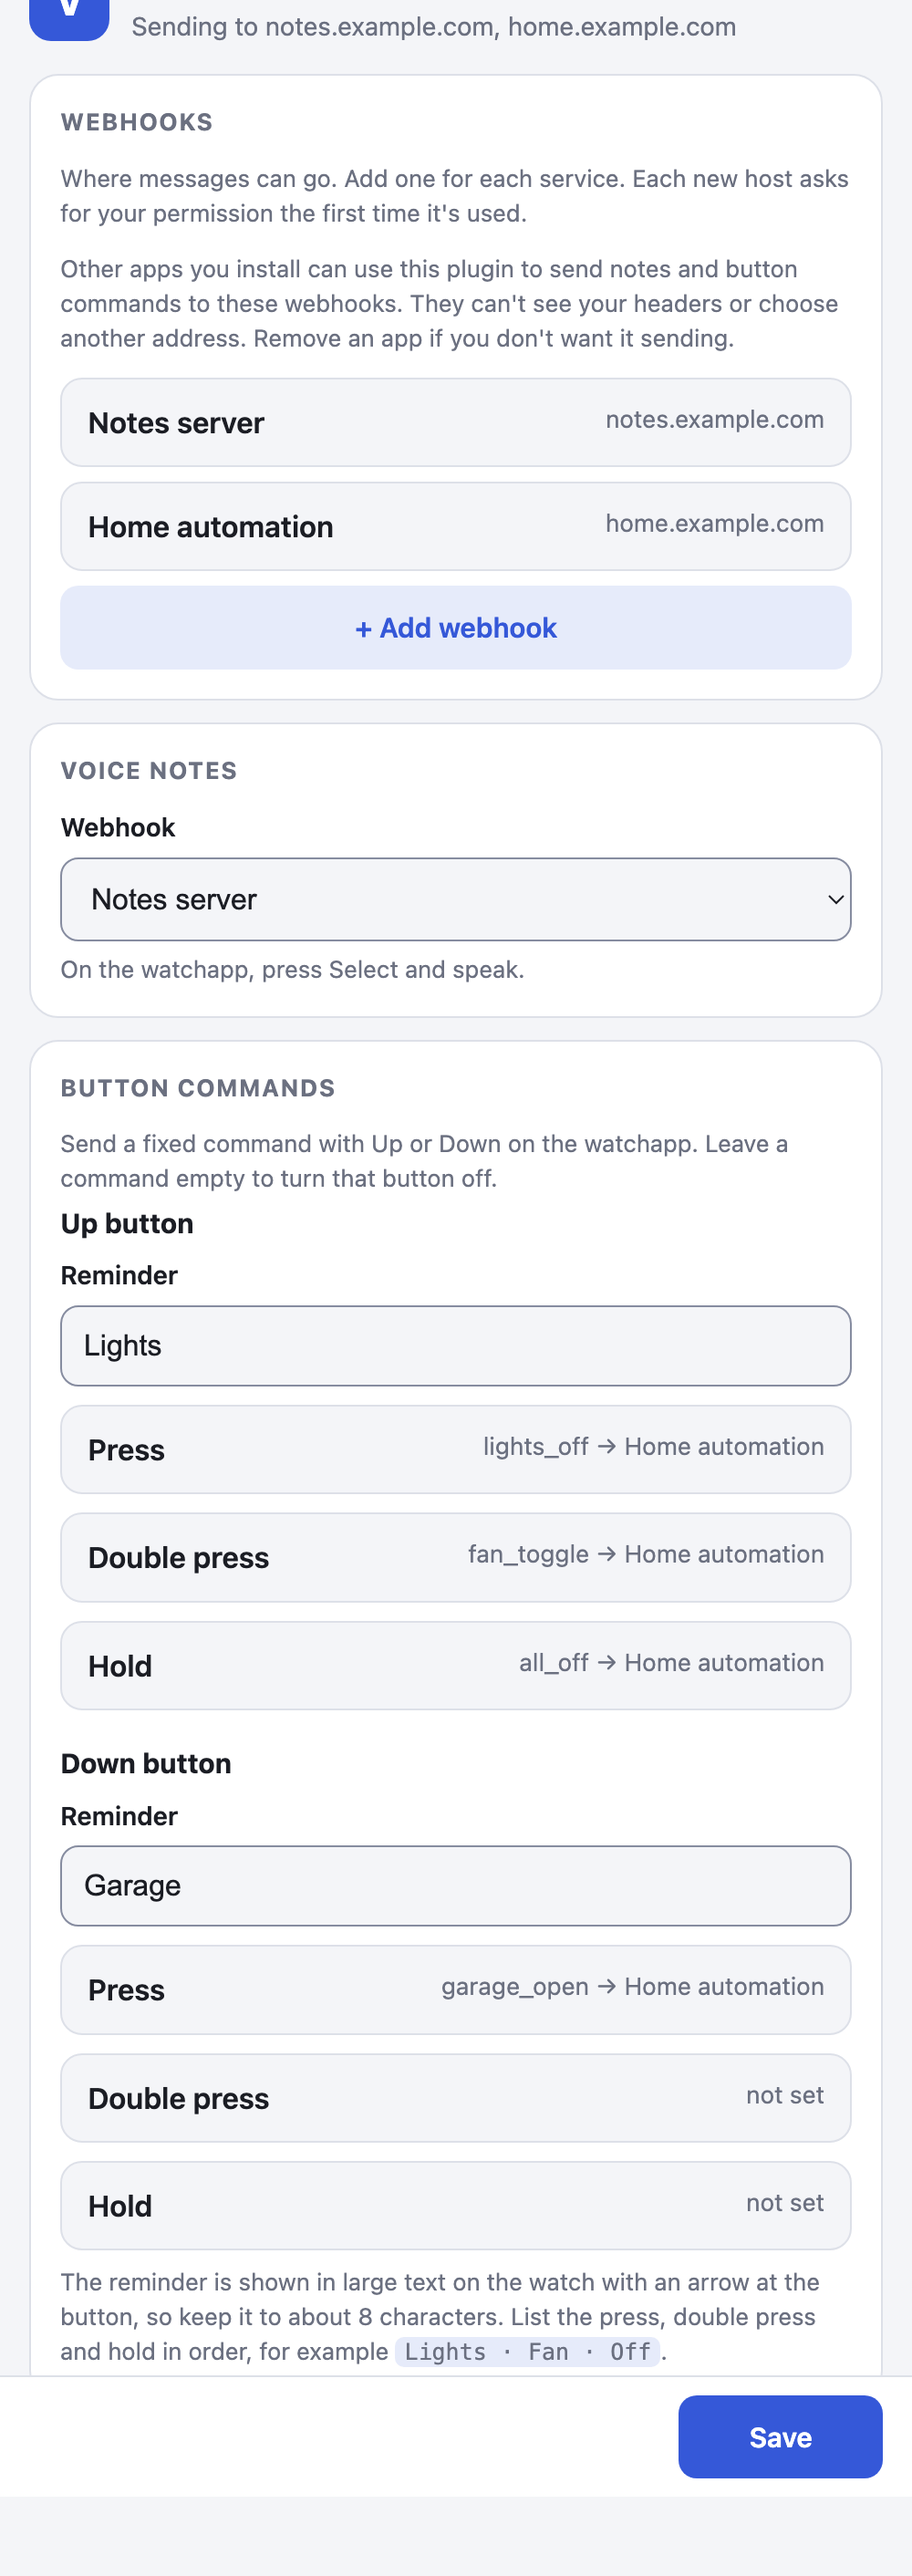
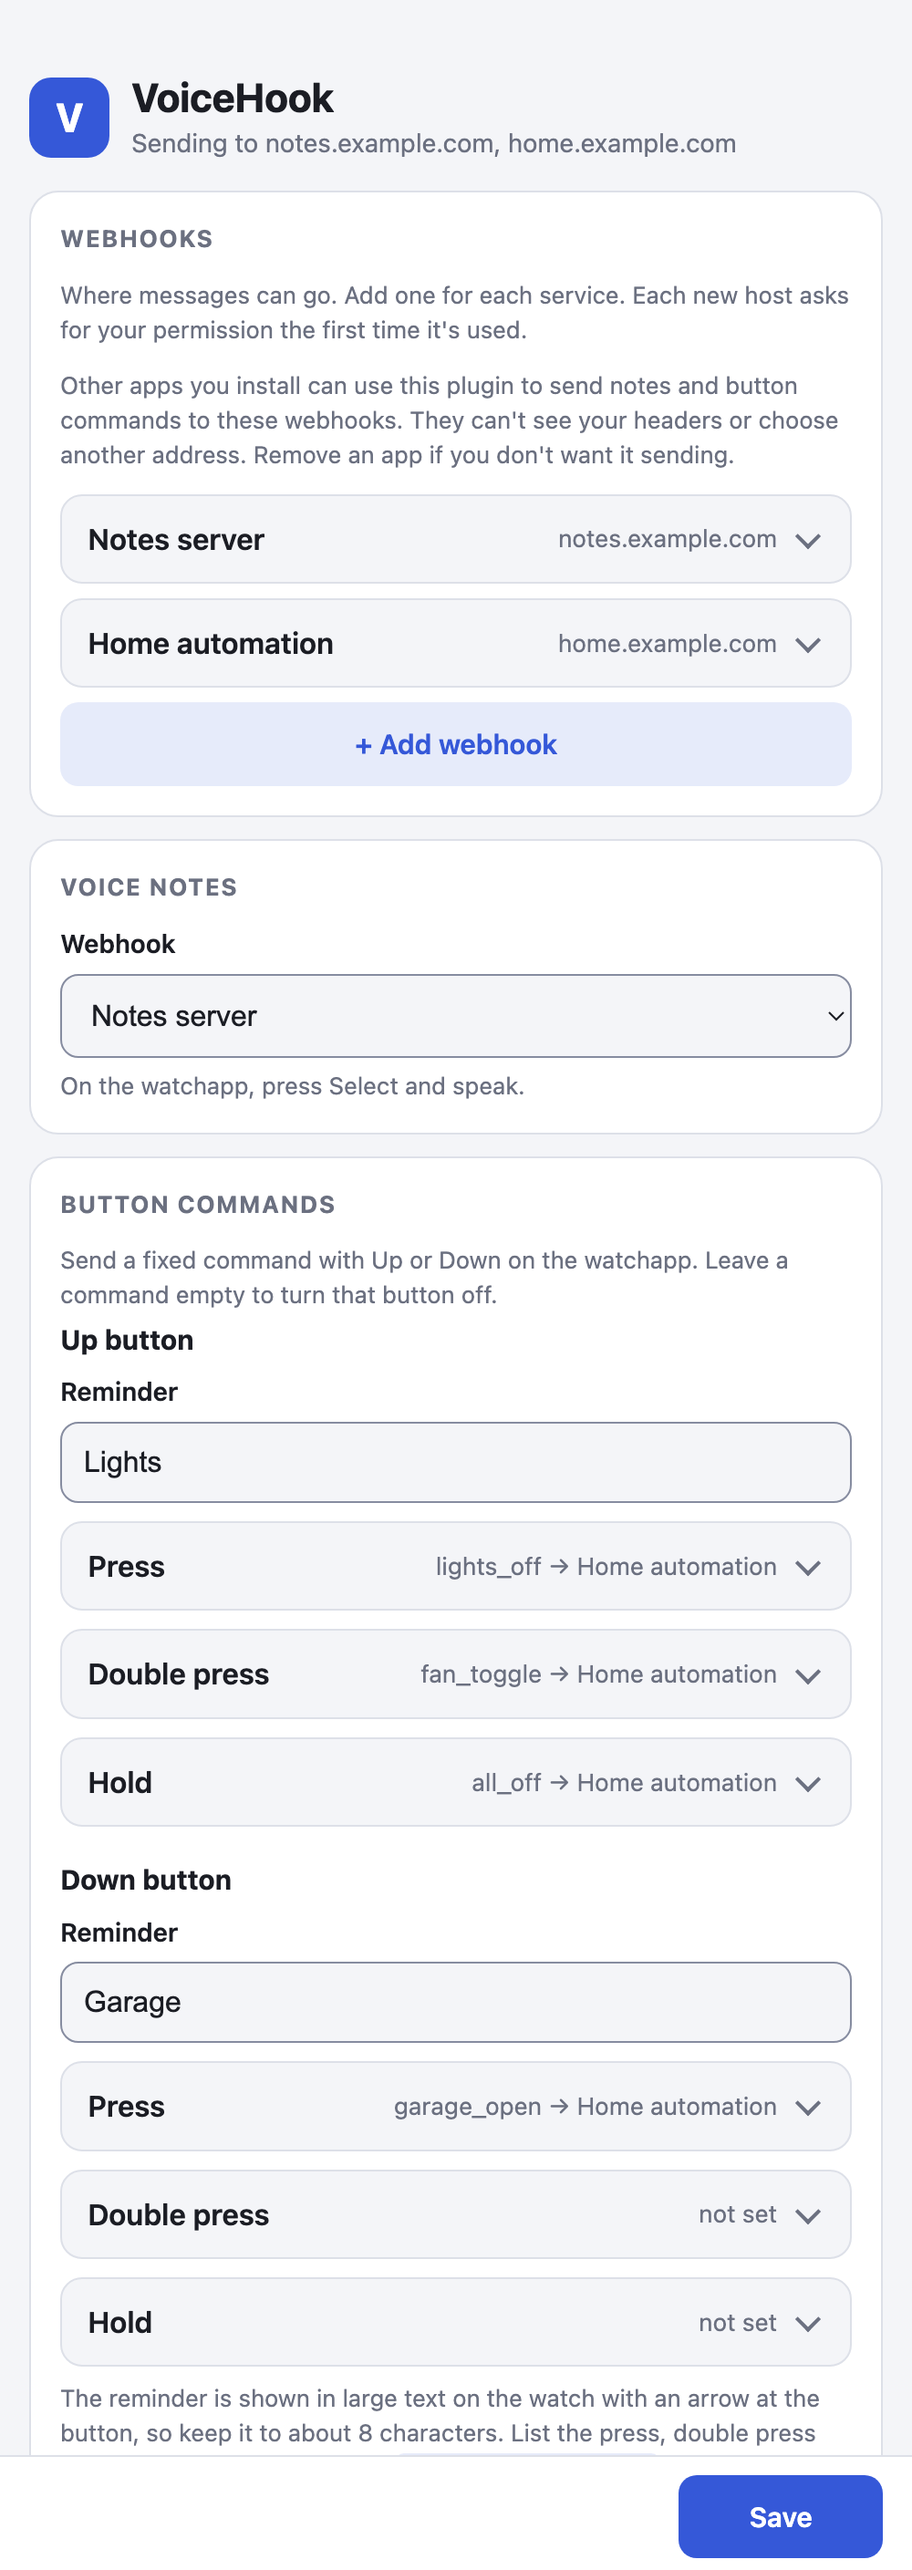
Smaller, more tilted idle mic; chevrons on expandable rows; log header value lengths; README settings screenshot; dev build 0.1.12

diff --git a/src/config.html b/src/config.html
@@ -63,6 +63,13 @@
     footer { text-align: center; margin-top: 8px; }
     details { border: 1px solid var(--line); border-radius: 12px; margin-bottom: 8px; background: var(--bg); }
     summary { padding: 12px 14px; font-weight: 600; cursor: pointer; display: flex; justify-content: space-between; gap: 8px; }
+    /* A chevron at the end of every expandable row: points down when closed, up when open. */
+    summary { align-items: center; }
+    summary::after { content: ""; flex: none; width: 8px; height: 8px; margin: 0 4px 3px 4px; border-right: 2px solid var(--muted); border-bottom: 2px solid var(--muted); transform: rotate(45deg); }
+    details[open] > summary::after { margin: 3px 4px 0 4px; transform: rotate(-135deg); }
+    @media (prefers-reduced-motion: no-preference) { summary::after { transition: transform .15s ease; } }
+    summary::-webkit-details-marker { display: none; }
+    summary small { margin-left: auto; }
     summary small { color: var(--muted); font-weight: 400; overflow: hidden; text-overflow: ellipsis; white-space: nowrap; }
     .dest-body { padding: 0 14px 14px; }
     .dest-body input, .dest-body select { background: var(--card); }

diff --git a/src/plugin/index.js b/src/plugin/index.js
@@ -262,7 +262,7 @@ async function permissionState(host) {
 async function deliver(destination, kind, value, doneText, extraHeaders) {
   if (!destination) return { ok: false, status: 0, message: 'That webhook was removed. Choose another in the ' + PRODUCT + ' settings.' };
   var request = buildRequest(destination, kind, value, new Date(), extraHeaders);
-  console.log(PRODUCT + ' sending to ' + destination.host + ' with headers: ' + Object.keys(request.options.headers).join(', '));
+  console.log(PRODUCT + ' sending to ' + destination.host + ' with headers (name, value length): ' + Object.keys(request.options.headers).map(function (name) { return name + ' ' + String(request.options.headers[name]).length; }).join(', '));
   try {
     var response = await fetch(request.url, request.options);
     if (response.status >= 200 && response.status < 300) {

diff --git a/app/src/c/main.c b/app/src/c/main.c
@@ -120,14 +120,19 @@ static void prv_draw_mic(GContext *ctx, MicPose pose) {
   }
 }
 
-// Resting pose: turned 80 degrees, large, its head pointing toward the buttons and its base cut off by the left edge.
+// Resting pose: tilted 65 degrees, its head pointing up toward the buttons and its base cut off by the left edge.
+#define IDLE_ANGLE_DEG 65
+#define IDLE_HEAD_PERCENT 54
 static MicPose prv_idle_pose(GRect bounds) {
-  int head_edge = bounds.size.w * 62 / 100;
+  int head_edge = bounds.size.w * IDLE_HEAD_PERCENT / 100;
   int scale = head_edge * 20;
+  int32_t angle = DEG_TO_TRIGANGLE(IDLE_ANGLE_DEG);
+  // The head's far edge sits 27 units from the centre along the tilted axis.
+  int reach = 27 * scale / 1000;
   return (MicPose) {
-    .center = GPoint(head_edge - 27 * scale / 1000 * 985 / 1000, bounds.size.h / 2 + bounds.size.h * 4 / 100),
+    .center = GPoint(head_edge - reach * sin_lookup(angle) / TRIG_MAX_RATIO, bounds.size.h / 2),
     .scale_permille = scale,
-    .angle = DEG_TO_TRIGANGLE(80),
+    .angle = angle,
   };
 }
 
